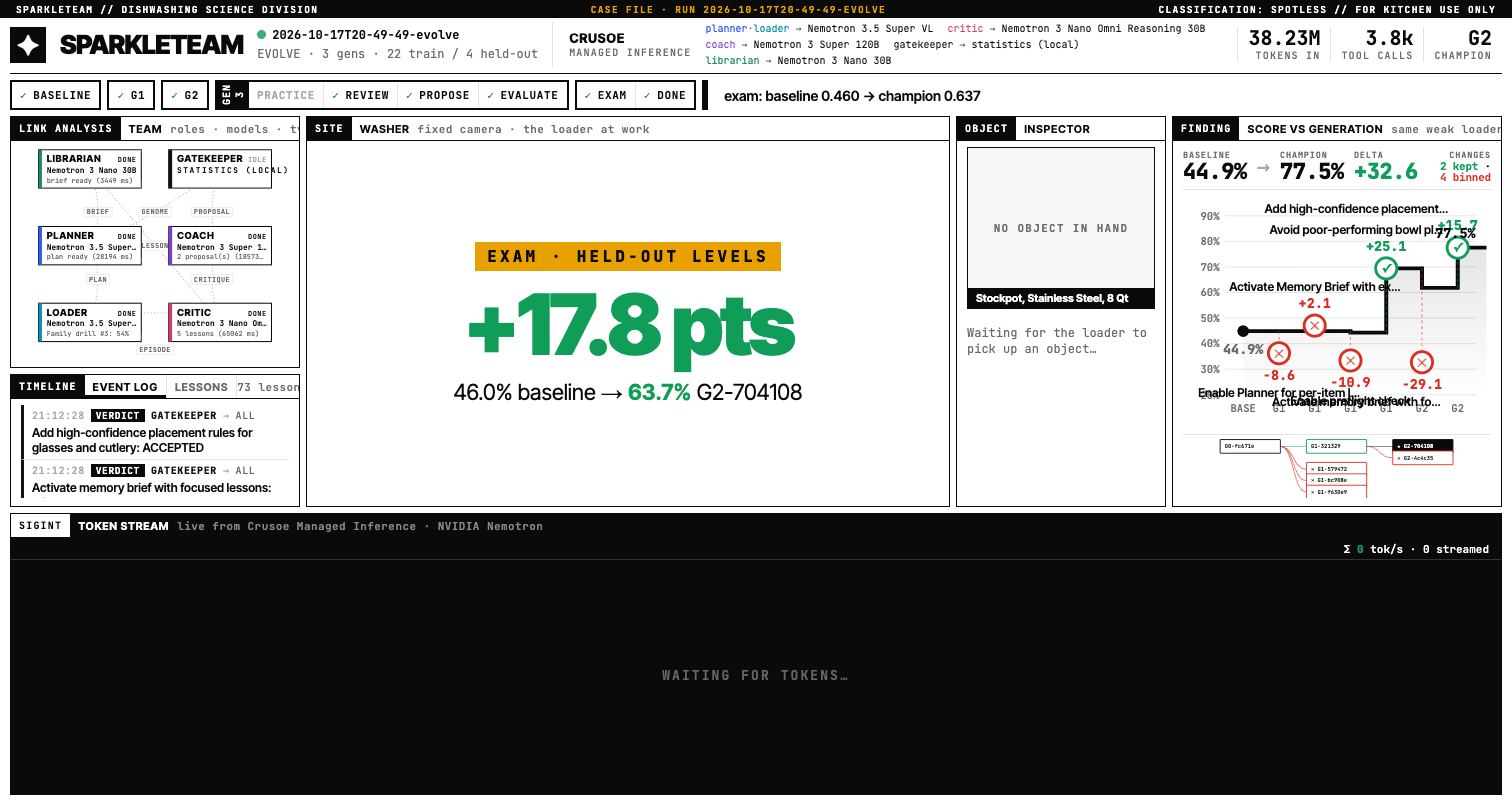
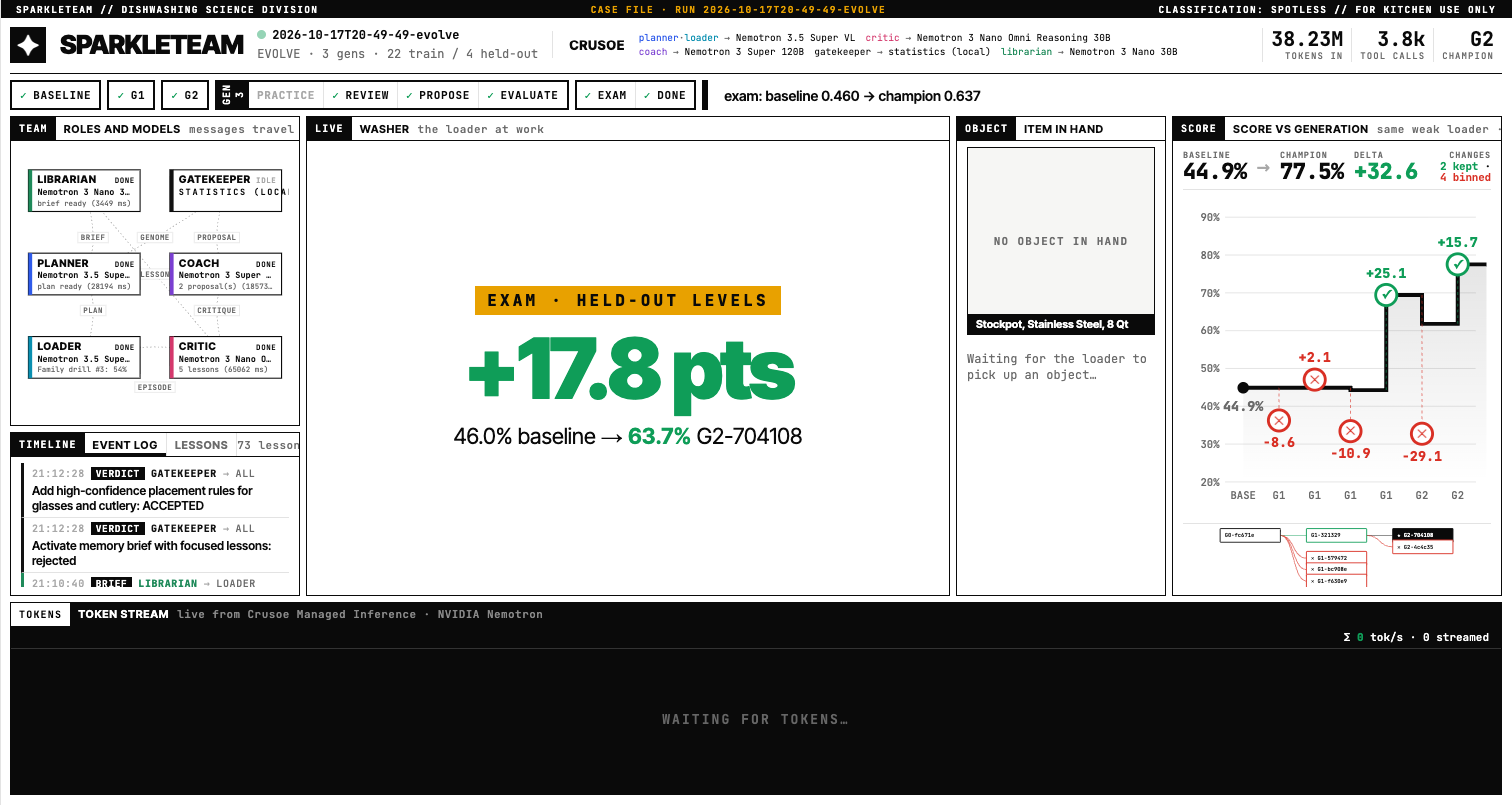
studio: figure pass - plain panel tags, nothing drawn over the washer (score in the title strip), shorter token row, TOK/S header stat, stills for replays, chart titles hidden past 3 decisions, at most 3 thumbnails; paper figure
Claude-Session: https://claude.ai/code/session_01YAKvvjpiF6Lp9isYSk37v4

diff --git a/studio/src/main.ts b/studio/src/main.ts
@@ -25,6 +25,7 @@ let lastExamSeq = 0;
 
 const tokens = tokenPanel($('#waterfall'), $('#meter'), (key) => state.episodes[key]?.taskTitle);
 const inspector = new Inspector($<HTMLIFrameElement>('#tt'), $('#objcard'), $('.turntable'));
+if (new URLSearchParams(location.search).has('replay')) inspector.useStill('stills/turntable.jpg');
 
 const source = startSource(
   (e) => apply(e, true),
@@ -80,12 +81,24 @@ function renderHeader(s: StudioState): void {
     ['cached', fmtN(t.cached)],
     ['tool calls', fmtN(t.toolCalls)],
     ['champion', champ ? champ.split('-')[0]! : '—'],
+    ['tok/s', tokRate()],
   ]
-    .map(([k, v]) => `<div class="counter"><div class="v">${v}</div><div class="k">${k}</div></div>`)
+    .map(([k, v]) => `<div class="counter ${k === 'tok/s' ? `rate ${tokens.rate().live ? 'live' : 'idle'}` : ''}"><div class="v">${v}</div><div class="k">${k}</div></div>`)
     .join('');
 }
 
 const STEPS = ['practice', 'review', 'propose', 'evaluate'] as const;
+/** Live tokens/second across all streams; when idle, the last value (dimmed) or the run's average output rate. */
+function tokRate(): string {
+  const r = tokens.rate();
+  if (r.live) return String(Math.round(r.now));
+  if (r.last > 0) return String(Math.round(r.last));
+  const fin = state.episodeOrder.map((k) => state.episodes[k]?.summary).filter((x) => !!x);
+  const outTok = fin.reduce((a, x) => a + (x!.tokensOut || 0), 0);
+  const secs = fin.reduce((a, x) => a + (x!.loadingS || 0), 0);
+  return secs > 0 ? String(Math.round(outTok / secs)) : '—';
+}
+
 function renderPhases(s: StudioState): void {
   const gens = Math.max(s.run?.generations ?? 2, s.phase?.generation ?? 0);
   const seen = new Set(s.phaseHistory.map((p) => `${p.phase}:${p.phase === 'baseline' || p.phase === 'exam' || p.phase === 'done' ? 0 : p.generation}`));
@@ -199,7 +212,7 @@ function renderGraph(s: StudioState): void {
     const t = g.querySelectorAll('text');
     t[1]!.textContent = a.status.toUpperCase();
     const mn = modelName(s.run?.models[r]);
-    t[2]!.textContent = mn.length > 19 ? `${mn.slice(0, 18)}…` : mn;
+    t[2]!.textContent = mn.length > 18 ? `${mn.slice(0, 17)}…` : mn;
     t[3]!.textContent = a.label.length > 21 ? `${a.label.slice(0, 20)}…` : a.label;
   }
 }
@@ -285,7 +298,7 @@ let userFocus: string | null = null;
 const LINGER_MS = 9000;
 
 function renderLive(s: StudioState): void {
-  const live = liveEpisodes(s, source.now(), LINGER_MS * Math.max(1, source.speed));
+  let live = liveEpisodes(s, source.now(), LINGER_MS * Math.max(1, source.speed));
   const keys = new Set(live.map((e) => e.key));
   for (const [k, c] of cards) if (!keys.has(k)) { c.el.remove(); cards.delete(k); }
   if (userFocus && !keys.has(userFocus)) userFocus = null;
@@ -293,7 +306,11 @@ function renderLive(s: StudioState): void {
   focusKey = userFocus ?? live.find((e) => !e.finishedAt)?.key ?? live[0]?.key ?? null;
   const W = stage.clientWidth;
   const H = stage.clientHeight;
-  const others = live.filter((e) => e.key !== focusKey);
+  // At most three other episodes as thumbnails, so each stays legible.
+  const others = live.filter((e) => e.key !== focusKey).slice(0, 3);
+  live = live.filter((e) => e.key === focusKey || others.includes(e));
+  const shown = new Set(live.map((e) => e.key));
+  for (const [k, c] of cards) if (!shown.has(k)) { c.el.remove(); cards.delete(k); }
   // The other episodes stack in a column on the right, so the hero view keeps a less extreme aspect.
   const gap = 6;
   const thumbW = others.length ? Math.round(Math.min(W * 0.24, 260)) : 0;
@@ -307,11 +324,18 @@ function renderLive(s: StudioState): void {
       el.className = 'card';
       const frame = document.createElement('iframe');
       // `&nohud`: the game page hides its own heading (the card's strip shows the title).
-      frame.src = /[#&]nohud\b/.test(e.watchUrl) ? e.watchUrl : `${e.watchUrl}&nohud`;
+      // A replay outlives its game servers: show a still of the washer instead of a dead page.
+      if (source.mode === 'replay') {
+        frame.style.display = 'none';
+        const img = document.createElement('img');
+        img.className = 'still';
+        img.src = 'stills/site.jpg';
+        el.append(img);
+      } else frame.src = /[#&]nohud\b/.test(e.watchUrl) ? e.watchUrl : `${e.watchUrl}&nohud`;
       frame.setAttribute('allow', 'autoplay');
       const ov = document.createElement('div');
       ov.className = 'ov';
-      el.classList.add('loading');
+      if (source.mode !== 'replay') el.classList.add('loading');
       frame.addEventListener('load', () => setTimeout(() => el.classList.remove('loading'), 2500));
       el.append(frame, ov);
       el.onclick = () => { userFocus = e.key; dirty = true; };
@@ -348,16 +372,15 @@ function renderLive(s: StudioState): void {
 }
 
 function overlay(e: EpisodeView): string {
-  const tools = e.stream.filter((x) => x.type === 'tool').slice(-4);
+  // Nothing is drawn over the washer: state and score live in the title strip above it.
   const sum = e.summary;
-  const sc = sum ? (sum.share >= 0.75 ? 'var(--good)' : sum.share >= 0.55 ? 'var(--ink)' : 'var(--bad)') : '';
-  return `<div class="ov-top"><span class="badge b-${e.purpose}">${e.purpose}</span><span class="task">${esc(e.taskTitle)}</span>
-      <span class="ov-meta">genome <b>${esc(e.genomeId)}</b> · ${e.itemCount} items · ${e.pointsAvailable} pts</span></div>
-    <div class="ticker">${tools
-      .map((t) => (t.type === 'tool' ? `<div class="tick ${t.ok ? '' : 'bad'}"><b>${esc(t.name)}</b> ${esc(t.summary)}</div>` : ''))
-      .join('')}</div>
-    ${e.wash === 'started' && !sum ? '<div class="washing">◌ WASHING</div>' : ''}
-    ${sum ? `<div class="stamp" style="--sc:${sc}"><div class="p">${sum.points}<small>/${sum.pointsAvailable}</small></div><div class="c">${sum.itemsClean}/${sum.itemsOffered} clean · ${pct(sum.share)}</div></div>` : ''}`;
+  const sc = sum ? (sum.share >= 0.75 ? 'good' : sum.share >= 0.55 ? 'mid' : 'bad') : '';
+  const state = sum
+    ? `<span class="score ${sc}"><b>${sum.points}/${sum.pointsAvailable}</b> · ${sum.itemsClean}/${sum.itemsOffered} clean</span>`
+    : e.wash === 'started'
+      ? '<span class="score wash">WASHING</span>'
+      : `<span class="ov-meta">${e.itemCount} items · ${e.pointsAvailable} pts</span>`;
+  return `<div class="ov-top"><span class="badge b-${e.purpose}">${e.purpose}</span><span class="task">${esc(e.taskTitle)}</span>${state}</div>`;
 }
 
 // ---------------------------------------------------------------------------------------------
@@ -431,9 +454,9 @@ function renderEvolution(s: StudioState): void {
         <circle class="cand" cx="${x}" cy="${y}" r="11" fill="#fff" stroke="${col}"/>
         <text x="${x}" y="${y + 4.5}" text-anchor="middle" font-size="13" font-weight="800" fill="${col}">${p.accepted ? '✓' : '✕'}</text>
         <text class="delta-t" x="${x}" y="${up ? y - 18 : y + 28}" text-anchor="middle" fill="${col}">${p.delta >= 0 ? '+' : '−'}${Math.abs(p.delta * 100).toFixed(1)}</text>
-        <text class="cand-t" x="${Math.min(x, W - 140)}" y="${up ? y - 36 : y + 46}" text-anchor="middle">${esc(p.title.length > 30 ? `${p.title.slice(0, 29)}…` : p.title)}</text></g>`;
+        ${pts.length - 1 > 3 ? '' : `<text class="cand-t" x="${Math.min(x, W - 140)}" y="${up ? y - 36 : y + 46}" text-anchor="middle">${esc(p.title.length > 30 ? `${p.title.slice(0, 29)}…` : p.title)}</text>`}</g>`;
     }
-    h += `<text class="delta-t" x="${W - Rr}" y="${Y(last.champion) - 10}" text-anchor="end" fill="var(--ink)">${pct(last.champion)}</text>`;
+    if (pts.length <= 4) h += `<text class="delta-t" x="${W - Rr}" y="${Y(last.champion) - 10}" text-anchor="end" fill="var(--ink)">${pct(last.champion)}</text>`;
   } else h += `<text class="axis-t" x="${W / 2}" y="${H / 2}" text-anchor="middle">waiting for the baseline score…</text>`;
   $('#chart').innerHTML = h;
   // The payoff in big type: where the team started, where it is now.
@@ -570,7 +593,7 @@ function showExam(s: StudioState): void {
   if (!x) return;
   const el = $('#exam');
   const d = (x.champion.share - x.baseline.share) * 100;
-  el.innerHTML = `<canvas></canvas><div class="inner"><div class="kicker">SparkleTeam · the exam · ${x.champion.perTask.length} levels the team has never seen</div>
+  el.innerHTML = `<canvas></canvas><div class="inner"><div class="kicker">SparkleTeam · exam on held-out levels · ${x.champion.perTask.length} levels the team has never seen</div>
     <div class="big ${d < 0 ? 'neg' : ''}"><span id="exam-num">+0.0</span> pts</div>
     <div class="line">baseline <b>${esc(x.baseline.genomeId)}</b> ${pct(x.baseline.share)} &nbsp;→&nbsp; champion <b style="color:var(--good)">${esc(x.champion.genomeId)}</b> ${pct(x.champion.share)}</div>
     <div class="bars" style="--n:${x.champion.perTask.length}">${x.champion.perTask

diff --git a/studio/src/style.css b/studio/src/style.css
@@ -487,3 +487,36 @@ main { grid-template-rows: minmax(0, 1.8fr) minmax(0, 1fr) 36vh; }
 @media (max-height: 900px) { .card.big .ov-meta { display: none; } }
 .title { letter-spacing: -.03em; }
 .logo { font-size: 28px; line-height: 1; }
+.card img.still, .turntable img.still { position: absolute; inset: 0; width: 100%; height: 100%; object-fit: cover; }
+.card.big img.still { top: 40px; height: calc(100% - 40px); }
+.card.small img.still { height: calc(100% - 18px); }
+.turntable img.still { opacity: 0; transition: opacity .4s; }
+.turntable.has img.still { opacity: 1; }
+@media (max-height: 900px) { .card.big img.still { top: 34px; height: calc(100% - 34px); } }
+/* Clarity pass: shorter token row, bigger washer, nothing drawn over the washer. */
+main { grid-template-rows: minmax(0, 1.8fr) minmax(0, 1fr) 24vh; }
+.exam .kicker::before { content: none; }
+.ov-top .score { margin-left: auto; font: 700 13px var(--mono); padding: 2px 8px; white-space: nowrap; border: 1.5px solid var(--ink); }
+.ov-top .score b { font-weight: 800; }
+.ov-top .score.good { background: var(--good); border-color: var(--good); color: #fff; }
+.ov-top .score.bad { background: var(--bad); border-color: var(--bad); color: #fff; }
+.ov-top .score.mid { background: var(--ink); color: #fff; }
+.ov-top .score.wash { background: var(--ink); color: #fff; animation: blink 1.2s infinite; }
+.small .ov-top .score { font-size: 9px; padding: 0 4px; border-width: 1px; }
+@media (max-height: 900px) {
+  main { grid-template-rows: minmax(0, 1.9fr) minmax(0, 1fr) 24vh; }
+  .ov-top .score { font-size: 11px; }
+  .lh { padding: 3px 8px 2px; }
+}
+.lh { background: #111; position: relative; z-index: 1; }
+.card.small img.still { object-position: 50% 60%; }
+.counter.rate .v { color: var(--good); }
+.counter.rate.idle .v { color: var(--faint); }
+@media (max-width: 1600px) { .counter { padding: 0 8px; } .counter .k { font-size: 9px; } }
+.counters { flex: none; }
+#top .run { flex: none; }
+@media (max-width: 1600px) { .models { font-size: 9.5px; gap: 1px 10px; } .inference .crusoe small { display: none; } }
+.lane { position: relative; }
+.lb { position: relative; z-index: 0; overflow: hidden; clip-path: inset(0); }
+/* The top line of a lane is cut mid-glyph by the clip: fade it out instead. */
+.lb { -webkit-mask-image: linear-gradient(to bottom, transparent 0, #000 22px); mask-image: linear-gradient(to bottom, transparent 0, #000 22px); }

diff --git a/studio/index.html b/studio/index.html
@@ -27,7 +27,7 @@
       <nav id="phases"></nav>
       <main>
         <section id="team" class="panel">
-          <h2><span class="ot">LINK ANALYSIS</span> Team <em>roles · models · typed links</em></h2>
+          <h2><span class="ot">TEAM</span> Roles and models <em>messages travel along the links</em></h2>
           <svg id="graph" viewBox="0 6 360 310"></svg>
         </section>
         <section id="chatter" class="panel tabs" data-tab="log">
@@ -36,22 +36,22 @@
           <div id="mem"></div>
         </section>
         <section id="live" class="panel">
-          <h2><span class="ot">SITE</span> Washer <em>fixed camera · the loader at work</em></h2>
+          <h2><span class="ot">LIVE</span> Washer <em>the loader at work</em></h2>
           <div id="stage"></div>
         </section>
         <section id="inspector" class="panel">
-          <h2><span class="ot">OBJECT</span> Inspector</h2>
+          <h2><span class="ot">OBJECT</span> Item in hand</h2>
           <div class="turntable"><iframe id="tt" title="turntable"></iframe><div class="tt-empty">no object in hand</div><div class="tt-cap" id="ttcap"></div></div>
           <div id="objcard" class="objcard"></div>
         </section>
         <section id="evo" class="panel">
-          <h2><span class="ot">FINDING</span> Score vs generation <em>same weak loader · better system</em></h2>
+          <h2><span class="ot">SCORE</span> Score vs generation <em>same weak loader · better system</em></h2>
           <div id="evohead" class="evohead"></div>
           <svg id="chart" viewBox="0 0 520 300"></svg>
           <div id="lineage"></div>
         </section>
         <section id="tokens" class="panel term">
-          <h2><span class="ot">SIGINT</span> Token stream <em>live from Crusoe Managed Inference · NVIDIA Nemotron</em></h2>
+          <h2><span class="ot">TOKENS</span> Token stream <em>live from Crusoe Managed Inference · NVIDIA Nemotron</em></h2>
           <div id="meter" class="meter"></div>
           <div id="waterfall" class="waterfall"></div>
         </section>

diff --git a/studio/src/tokens.ts b/studio/src/tokens.ts
@@ -39,6 +39,8 @@ interface Lane {
 
 export interface TokenPanel {
   push(e: StreamEv): void;
+  /** Tokens/second over the last 3 s (`now`), whether anything streamed in that window, and the last non-zero rate. */
+  rate(): { now: number; live: boolean; last: number };
 }
 
 export function tokenPanel(root: HTMLElement, meter: HTMLElement, taskOf: (episodeKey: string) => string | undefined = () => undefined): TokenPanel {
@@ -55,6 +57,8 @@ export function tokenPanel(root: HTMLElement, meter: HTMLElement, taskOf: (episo
   // Rate window: [time, model, tokens].
   const window: [number, string, number][] = [];
   let totalTok = 0;
+  let curRate = 0;
+  let lastRate = 0;
   let layoutN = -1;
 
   function lane(e: StreamEv): Lane {
@@ -158,6 +162,8 @@ export function tokenPanel(root: HTMLElement, meter: HTMLElement, taskOf: (episo
         by.set(m, (by.get(m) ?? 0) + t);
         sum += t;
       }
+      curRate = sum / 3;
+      if (curRate > 0) lastRate = curRate;
       meter.innerHTML =
         [...by]
           .sort((a, b) => b[1] - a[1])
@@ -167,5 +173,5 @@ export function tokenPanel(root: HTMLElement, meter: HTMLElement, taskOf: (episo
     requestAnimationFrame(frame);
   }
   requestAnimationFrame(frame);
-  return { push };
+  return { push, rate: () => ({ now: curRate, live: curRate > 0, last: lastRate }) };
 }

diff --git a/studio/src/inspector.ts b/studio/src/inspector.ts
@@ -163,8 +163,20 @@ export class Inspector {
       </div>`;
   }
 
+  private still: string | null = null;
+
+  /** Replays: the game servers are gone, so the turntable shows a still picture. */
+  useStill(url: string): void {
+    this.still = url;
+    this.frame.style.display = 'none';
+    const img = document.createElement('img');
+    img.className = 'still';
+    img.src = url;
+    this.box.prepend(img);
+  }
+
   private setFrame(e: EpisodeObjects, itemId: string): void {
-    if (!e.watchUrl || !e.sessionId) return;
+    if (this.still || !e.watchUrl || !e.sessionId) return;
     let base: string;
     try {
       base = new URL(e.watchUrl, location.href).href.split('#')[0]!;

diff --git a/studio/scripts/.shot.ts b/studio/scripts/.shot.ts
@@ -1,0 +1,11 @@
+import { launch } from 'puppeteer-core';
+const [out, size, url, wait] = process.argv.slice(2);
+const [w, h] = size!.split('x').map(Number);
+const b = await launch({ executablePath: '/Applications/Google Chrome.app/Contents/MacOS/Google Chrome', headless: true, args: [`--window-size=${w},${h}`, '--mute-audio'], defaultViewport: { width: w!, height: h! } });
+const p = await b.newPage();
+await p.goto(url!, { waitUntil: 'domcontentloaded' });
+await new Promise((r) => setTimeout(r, Number(wait ?? 9000)));
+await p.keyboard.press('Escape');
+await new Promise((r) => setTimeout(r, 800));
+await p.screenshot({ path: out as `${string}.png` });
+await b.close();
